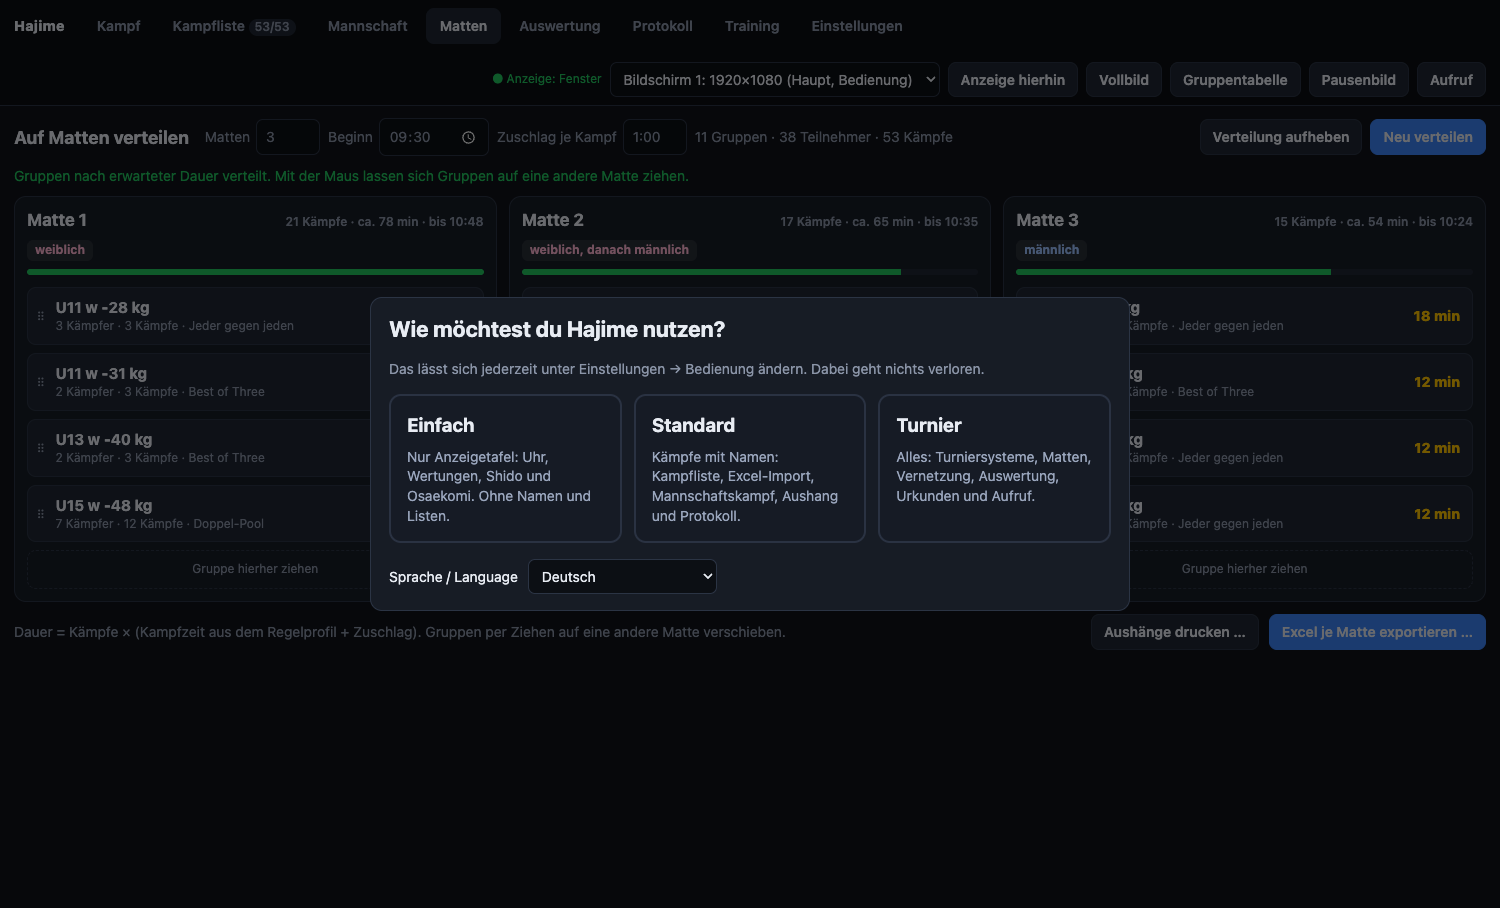
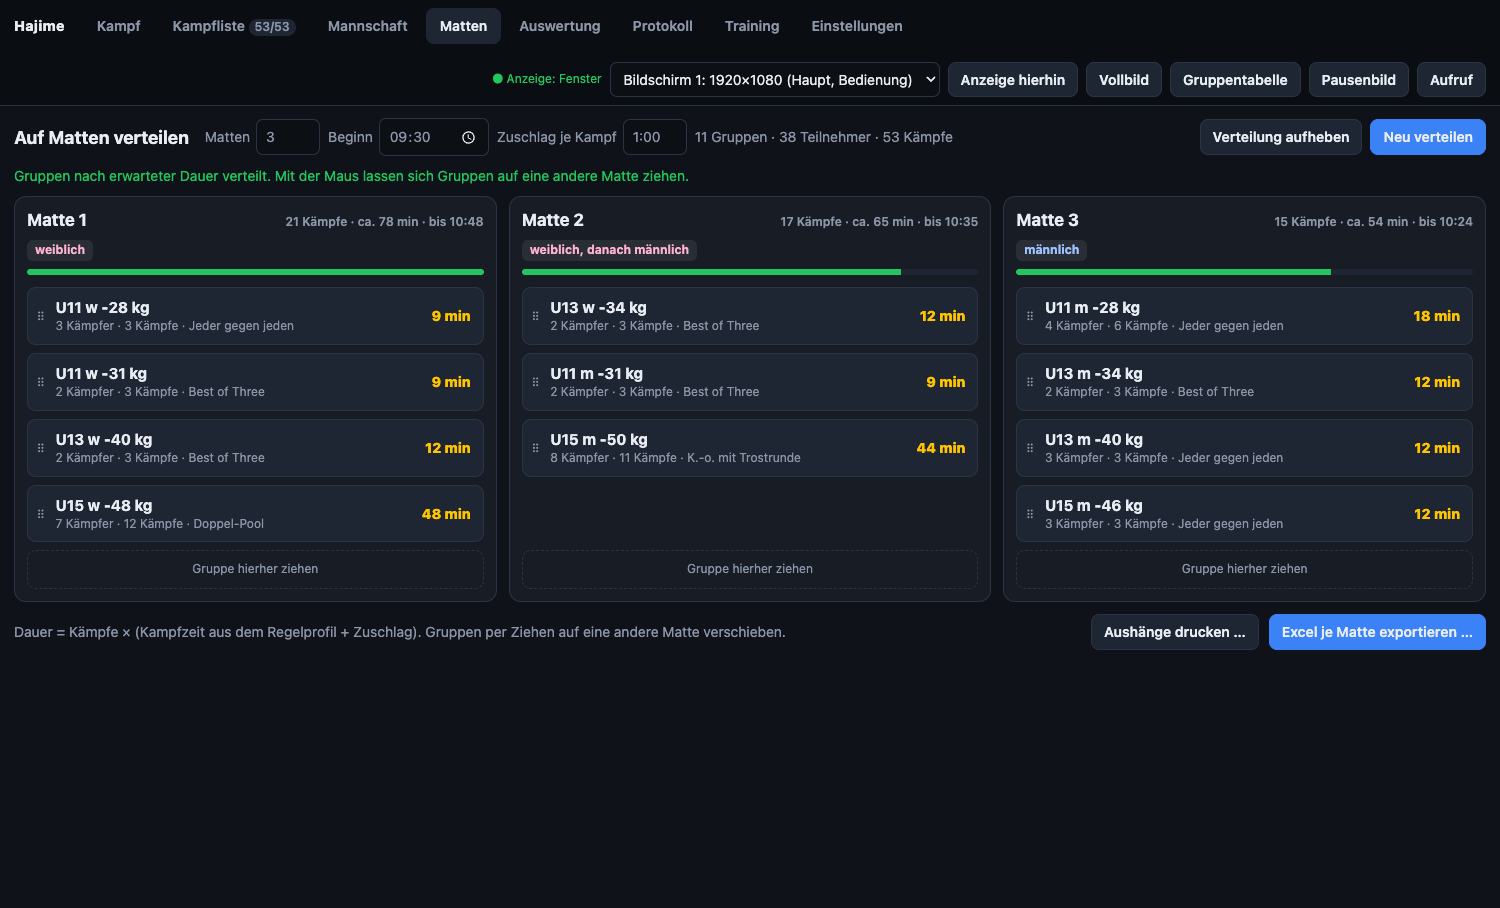
README-Screenshots ohne überlagerte Startabfrage neu erzeugt
Die Abfrage des Umfangs schließt sich jetzt, sobald ein Umfang feststeht (z. B. Sicherung geladen).
Das Screenshot-Skript bricht ab, wenn ein Dialog ungewollt offen ist.

diff --git a/scripts/screenshots.js b/scripts/screenshots.js
@@ -22,6 +22,10 @@ module.exports = async function run({ getControl, getBoard, quit }) {
     await wait(700);
     // echte Monitornamen des Rechners nicht in die öffentlichen Bilder übernehmen
     if (win === ctl) {
+      // offene Dialoge nur dort, wo sie gezeigt werden sollen (sonst verdecken sie die Bedienung)
+      const allowed = { 'bedienung-start': 'dlgLevel', 'bedienung-ruhezeit': 'dlgRest' };
+      const open = await ctl.webContents.executeJavaScript(`Array.from(document.querySelectorAll('dialog[open]')).map((d) => d.id).join(',')`);
+      if (open && open !== allowed[name]) throw new Error(`Screenshot ${name}: Dialog offen (${open})`);
       await ctl.webContents.executeJavaScript(
         `document.querySelectorAll('#displaySelect option').forEach((o, i) => (o.textContent = 'Bildschirm ' + (i + 1) + ': 1920×1080' + (i ? ' (Anzeige)' : ' (Haupt, Bedienung)')))`
       );
@@ -304,6 +308,8 @@ module.exports = async function run({ getControl, getBoard, quit }) {
 
   // Erster Start: Abfrage des Umfangs
   await js(`
+    __judo.state.settings.level = '';
+    __judo.commit();
     document.querySelector('.tabs button[data-tab="fight"]').click();
     document.getElementById('dlgLevel').showModal();
   `);

diff --git a/src/js/control.js b/src/js/control.js
@@ -2710,6 +2710,8 @@
   function renderLevel() {
     const lv = state.settings.level || 'tournament';
     C.LEVELS.forEach((l) => document.body.classList.toggle('lvl-' + l, l === lv));
+    // Umfang steht fest (gewählt oder per Sicherung geladen): Abfrage schließen
+    if (state.settings.level && $('#dlgLevel').open) $('#dlgLevel').close();
     $('#levelInfo').textContent = t(LEVEL_INFO[lv]);
     // ausgeblendeter Reiter offen? Dann zurück zum Kampf
     const active = $('.tabs button.active');
